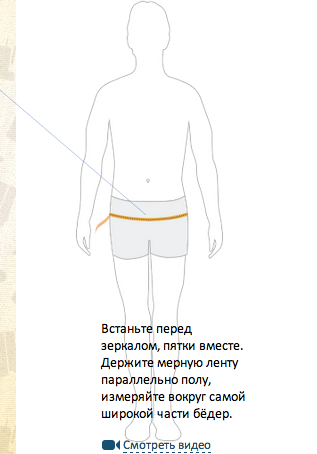
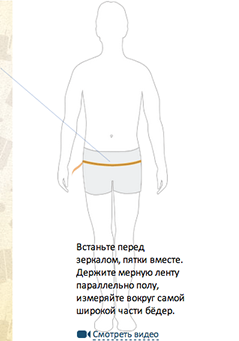
Разместил картинки для анимаций на слайдах

Changed region(s): [[0.3222, 0.7038, 0.7908, 0.9384], [0.3222, 0.9677, 0.6736, 1.0], [0.2929, 0.4692, 0.5858, 0.4985]]

diff --git a/movie/index.html b/movie/index.html
@@ -17,6 +17,10 @@
     <script src="../src/lib/jquery.easing.1.3.js"></script>
     <script src="../src/lib/lodash.2.2.1.js"></script>
     <script src="../src/js/screencast.js"></script>
+
+    <link rel="stylesheet" href="css/screencast.css"/>
+    <link rel="stylesheet" href="../src/css/cursor.css"/>
+    <link rel="stylesheet" href="../src/css/popup.css"/>
     <!--/Ресурсы для скринкаста-->
 
     <script>
@@ -102,32 +106,85 @@
             </div>
 
             <div class="fotorama" data-auto="false" id="screencast-fotorama">
-                <div id="home" data-img="i/how-to-buy/01-home.png" class="screencast">
-
+                <div id="home" data-img="i/how-to-buy/01-home.png" class="screencast" onclick="return [
+                  {
+                    'subtitles': [
+                      ['fadeTo', 1, 0],
+                      ['wait', 500],
+                      ['fadeTo', 1, 200],
+                      ['wait', 2000]
+                    ],
+                    'cursor': [
+                      ['wait', 1000],
+                      ['moveTo', [700, 280], {'duration': 2000}]
+                    ]
+                  },
+                  {
+                    'subtitles': [
+                      ['fadeTo', 0, 1000]
+                    ],
+                    'cursor': [
+                      ['wait', 1500],
+                      ['moveTo', [490, 20], {'duration': 1000}],
+                      ['wait', 200],
+                      'click'
+                    ]
+                  }
+              ];">
+                    <div class="subtitles" style="top: 40%; opacity: 200; display: block;">
+                        <div class="subtitles__wrap">Качественные джинсы по вашему дизайну и мерке</div>
+                    </div>
+                    <div class="cursor" style="left: 250px; top: 290px;"></div>
                 </div>
 
                 <div id="design" data-img="i/how-to-buy/02-design.png" class="screencast">
-
+                    <div class="gender-switch g-display-none"></div>
+                    <div class="model model-man-base g-display-none"></div>
+                    <div class="model model-man-low g-display-none"></div>
+                    <div class="model model-man-straight g-display-none"></div>
+                    <div class="type g-display-none"></div>
+                    <div class="cursor" style="top: 20px; left: 490px;"></div>
                 </div>
 
                 <div id="craft" data-img="i/how-to-buy/03-craft.png" class="screencast">
-
+                    <div class="craft-buttons g-display-none"></div>
+                    <div class="craft-tool craft-tool-hover g-display-none"></div>
+                    <div class="craft-tool craft-tool-active g-display-none"></div>
+                    <div class="craft-result-1 g-display-none"></div>
+                    <div class="craft-result-2 g-display-none"></div>
+                    <div class="craft-result-3 g-display-none"></div>
+                    <div class="craft-result-4 g-display-none"></div>
+                    <div class="cursor"></div>
                 </div>
 
                 <div id="result" data-img="i/how-to-buy/04-result.png" class="screencast">
-
+                    <div class="model model-result-back g-display-none"></div>
+                    <div class="cursor"></div>
                 </div>
 
                 <div id="measures" data-img="i/how-to-buy/05-measures.png" class="screencast">
-
+                    <div class="size-help size-help-2 g-display-none"></div>
+                    <div class="size-help size-help-3 g-display-none"></div>
+                    <div class="size-help size-help-4 g-display-none"></div>
+                    <div class="size-help size-help-5 g-display-none"></div>
+                    <div class="size-help size-help-6 g-display-none"></div>
+                    <div class="size-help size-help-7 g-display-none"></div>
+                    <div class="cursor"></div>
                 </div>
 
                 <div id="cart" data-img="i/how-to-buy/06-cart.png" class="screencast">
-
+                    <div class="cart-frame">
+                        <img class="cart-bg" src="i/how-to-buy/06-cart.png" alt=""/>
+                    </div>
+                    <div class="cart-selector g-display-none"></div>
+                    <div class="cursor"></div>
                 </div>
 
                 <div id="checkout" data-img="i/how-to-buy/07-checkout.png" class="screencast">
-
+                    <div class="checkout-frame">
+                        <img class="checkout-bg" src="i/how-to-buy/07-checkout.png" alt=""/>
+                    </div>
+                    <div class="checkout-disabled"></div>
                 </div>
             </div>
 

diff --git a/movie/css/screencast.css b/movie/css/screencast.css
@@ -1,0 +1,164 @@
+.screencast {
+    position: relative;
+    width: 100%;
+    height: 100%;
+}
+
+.model {
+    position: absolute;
+    width: 410px;
+    height: 411px;
+    left: 273px;
+    top: 90px;
+}
+
+.model-man-base {
+    background: url(../i/how-to-buy/elements/02-man-base.png);
+}
+
+.model-man-low {
+    background: url(../i/how-to-buy/elements/02-man-low.png);
+}
+
+.model-man-straight {
+    background: url(../i/how-to-buy/elements/02-man-straight.png);
+}
+
+.model-result-back {
+    width: 430px;
+    background: url(../i/how-to-buy/elements/04-show-back.png);
+}
+
+.type {
+    position: absolute;
+    top: 130px;
+    left: 185px;
+    width: 613px;
+    height: 327px;
+    background: url(../i/how-to-buy/elements/02-type.png);
+}
+
+.gender-switch {
+    position: absolute;
+    top: 88px;
+    left: 135px;
+    width: 114px;
+    height: 46px;
+    background: url(../i/how-to-buy/elements/02-gender-male.png);
+}
+
+.craft-tool {
+    position: absolute;
+    left: 614px;
+    top: 233px;
+    width: 48px;
+    height: 55px;
+}
+
+.craft-tool-hover {
+    background: url(../i/how-to-buy/elements/03-tool-hover.png);
+}
+
+.craft-tool-active {
+    background: url(../i/how-to-buy/elements/03-tool-active.png);
+}
+
+.craft-result-1 {
+    position: absolute;
+    top: 162px;
+    left: 510px;
+    width: 69px;
+    height: 181px;
+    background: url(../i/how-to-buy/elements/03-result-1.png);
+}
+
+.craft-result-2 {
+    position: absolute;
+    top: 378px;
+    left: 528px;
+    width: 51px;
+    height: 90px;
+    background: url(../i/how-to-buy/elements/03-result-2.png);
+}
+
+.craft-result-3 {
+    position: absolute;
+    top: 174px;
+    left: 426px;
+    width: 54px;
+    height: 126px;
+    background: url(../i/how-to-buy/elements/03-result-3.png);
+}
+
+.craft-result-4 {
+    position: absolute;
+    top: 342px;
+    left: 418px;
+    width: 57px;
+    height: 126px;
+    background: url(../i/how-to-buy/elements/03-result-4.png);
+}
+
+.craft-buttons {
+    position: absolute;
+    top: 478px;
+    left: 281px;
+    width: 128px;
+    height: 20px;
+    background: url(../i/how-to-buy/elements/03-buttons-active.png);
+}
+
+.size-help {
+    position: absolute;
+    top: 175px;
+    left: 709px;
+    width: 239px;
+    height: 341px;
+}
+
+.size-help-2 {
+    background: url(../i/how-to-buy/elements/05-size-2.png);
+}
+
+.size-help-3 {
+    background: url(../i/how-to-buy/elements/05-size-3.png);
+}
+
+.size-help-4 {
+    background: url(../i/how-to-buy/elements/05-size-4.png);
+}
+
+.size-help-5 {
+    background: url(../i/how-to-buy/elements/05-size-5.png);
+}
+
+.size-help-6 {
+    background: url(../i/how-to-buy/elements/05-size-6.png);
+}
+
+.size-help-7 {
+    background: url(../i/how-to-buy/elements/05-size-7.png);
+}
+
+.cart-selector {
+    position: absolute;
+    width: 341px;
+    height: 57px;
+    top: 200px;
+    left: 200px;
+    background: url(../i/how-to-buy/elements/06-cart-delivery-selector.png);
+}
+
+.cart-frame,
+.checkout-frame {
+    position: relative;
+    height: 100%;
+    overflow: hidden;
+}
+
+.cart-bg,
+.checkout-bg {
+    position: absolute;
+    left: 0;
+    top: 0;
+}

diff --git a/src/css/screencast.css b/src/css/screencast.css
@@ -1,7 +1,19 @@
 .screencast {
     position: relative;
-    width: 363px;
-    height: 502px;
+    width: 100%;
+    height: 100%;
+}
+
+.model {
+    position: absolute;
+    width: 545px;
+    height: 547px;
+    left: 365px;
+    top: 120px;
+}
+
+.model-man-base {
+
 }
 
 .login {
